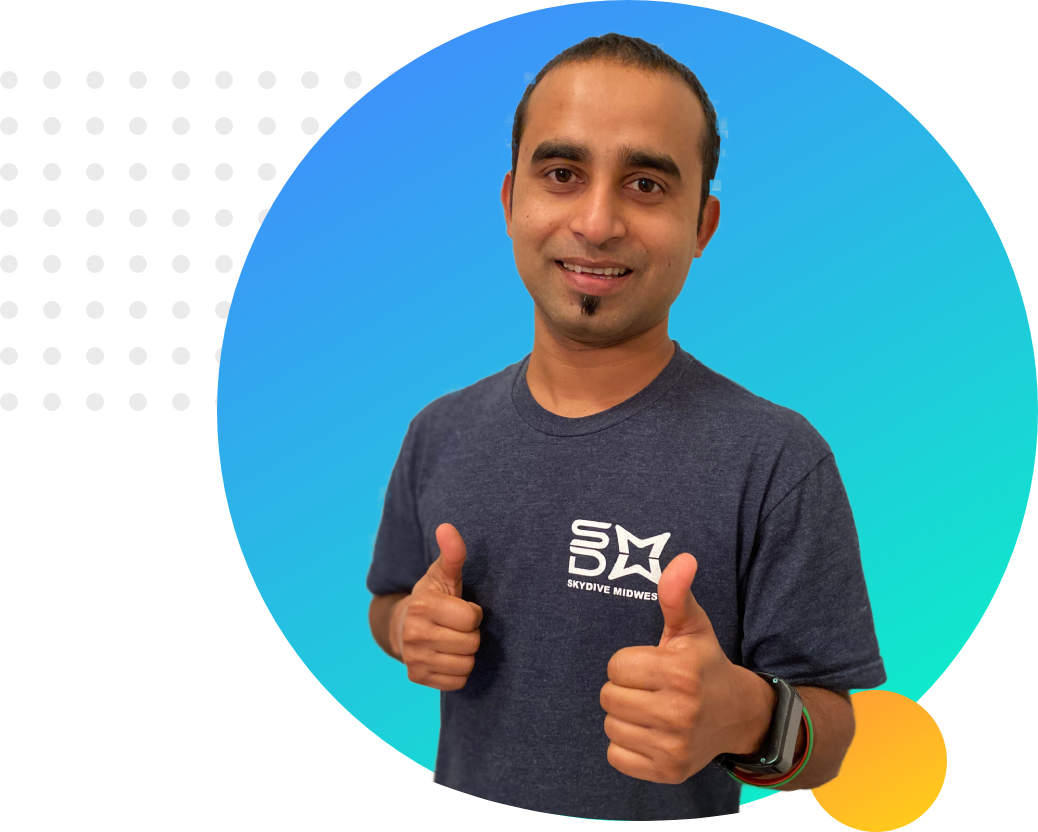
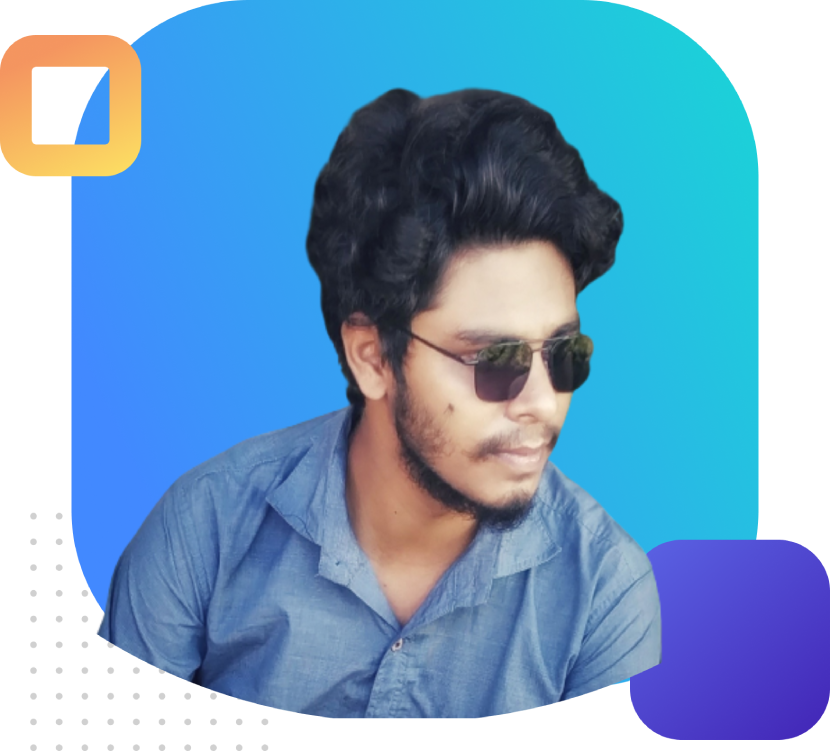
final

diff --git a/index.html b/index.html
@@ -5,44 +5,83 @@
     <meta name="viewport" content="width=device-width, initial-scale=1.0">
     <meta http-equiv="X-UA-Compatible" content="ie=edge">
     <title>Kawshik Web Developer</title>
-    <link href="https://fonts.googleapis.com/css?family=Poppins&display=swap" rel="stylesheet">
+    <link rel="preconnect" href="https://fonts.gstatic.com">
+    <link href="https://fonts.googleapis.com/css2?family=Yeon+Sung&display=swap" rel="stylesheet">
+    <script src="https://kit.fontawesome.com/6643fc3f7c.js" crossorigin="anonymous"></script>
     <link rel="stylesheet" href="style.css">
 </head>
 <body>
     <section class="top-banner">
         <div class="half-width">
-            <h1>Welcome To</h1>
-            <h1><span class="orange-highlight">Kawshik</span> Portfolio</h1>
+            <h1 style="color:#363958">Hello I'am</h1>
+            <h1><span class="blue-highlight">Kawshik Developer</span></h1>
             <h3 >World-class Professional Front-End Developer</h3>
-            <p style="line-height: 2;letter-spacing:.02cm;text-align: justify;font-size: 20px;">Hello I am Kawshik. From my childhood i love to lear about technology. Web is my most favourite in it . That's why I am learning and mastering web development. I will not stop until I become the Web Development Hero.</p>
-            <a class="link-button"  href="https://www.linkedin.com/company/programminghero/">HIRE ME</a>
+            <p style="line-height: 2;letter-spacing:.02cm;text-align: justify;font-size: 20px;">Hello I am Kawshik. From my childhood i love to learn about technology. Web is my most favourite in it . That's why I am learning and mastering web development. I will not stop until I become the Web Development Hero.</p>
+            <a class="link-button"  href="https://www.linkedin.com/company/programminghero/"><i class="far fa-handshake"></i>HIRE ME</a>
         </div>
         <div class="half-width">
-            <img src="images/my-bg2.png" alt="">
+            <img src="images/kawshik profile.png" alt="">
         </div>
     </section>
     <section class="dream-area">
         <div class="half-width">
-            <img src="images/my-bg2.png" alt="">
+            <img src="images/profile2.png" alt="">
         </div>
         <div class="half-width">
-            <h2 id="call">I have a Dream</h2>
+            <h2 id="call">About Me</h2>
             <h3>Become World's No. 1 Developer</h3>
-            <p style="line-height: 2;letter-spacing:.02cm;text-align: justify;font-size: 20px;">I already learned the basic HTML and CSS. I can build any simple website. I can even teach my grandma how to make simple website. My goal is to build 3 websites and learn advanced topics.</p>
-            <a class="link-button" target="_blank" href="https://www.linkedin.com/company/programminghero/">DOWNLOAD RESUME</a>
+            <p style="line-height: 2;letter-spacing:.02cm;text-align: justify;font-size: 20px;">I already learned the basic HTML and CSS. I can build any simple website. I can even teach my friends how to make simple website. My goal is to build 3 websites and learn advanced topics.</p>
+            <a class="link-button" target="_blank" href="https://www.linkedin.com/company/programminghero/"><i class="fas fa-download"></i>DOWNLOAD RESUME</a>
         </div>
     </section>
-    <section class="experience-area">
-        <h2 class="btm" style="margin-left:-100px;text-align:center;border-bottom:3px solid black;display: inline-block;">Experiences</h2>
-        <div id="full-stack" class="half-width single-experience">
-            <h2>Full Stack Web Dev</h2>
-            <h3 class="orange-highlight">2021 - Present | Pro level Web Dev</h3 class="orange-highlight">
-            <p>I am the master of HTML, CSS and Javascript. I know everything needed to make a website function, efficient. I didn't stop with the web. I went beyond with most popular Javascript framework called Vue JS. I even know the deployment, server and security. I will give you 100% web solution.</p>
+    
+    <section class="portfolio-area">
+        <h2 style="color:#363958;text-align: center;"><span class="blue-highlight">LATEST</span> WORKING PROJECT</h2>
+        <div class="portfolio">
+            <img src="images/image 4.png" alt="gym" width="350" height="250" >
+            <h3>Power-x-gym (gym website)</h3>
+            <p>Lorem Ipsum is simply dummy text of the 
+                printing and typesetting industry.</p>
         </div>
-        <div id="baby-web" class="half-width single-experience">
-            <h2>Baby Web Developer</h2>
-            <h3 class="orange-highlight">2020-2021 | Programming Hero Learner</h3>
-            <p>They didn't offer me a job. But I made myself as a remove web developer. I made their website and showed it to them. They liked it. And uploaded the content. It was fun working at Programming Hero.</p>
+        <div class="portfolio">
+            <img src="images/image 5.png" alt="agency" width="350" height="250" >
+            <h3>Creative Agency</h3>
+            <p>Lorem Ipsum is simply dummy text of the 
+                printing and typesetting industry.</p>
+        </div>
+        <div class="portfolio">
+            <img src="images/image 8.png" alt="rock" width="350" height="250" >
+            <h3>Hard Rock Music</h3>
+            <p>Lorem Ipsum is simply dummy text of the 
+                printing and typesetting industry.</p>
+        </div>
+    </section>
+    <section class="testimonial-section">
+        <h2>Clients Review</h2>
+        <div class="testimonial">
+            <img src="images/testimonials-6.png" alt="">
+            <p style="color:white;font-size: 22px;">It was a very pleasant working experience with Hasan. He has patient to understand what i would need and he did put all the effort to make things the best possible.</p>
+            <h2>lisasossi</h2>
+        </div>
+        <div class="testimonial">
+            <img src="images/testimonial-5.png" alt="">
+            <p style="color:white; font-size: 22px;">It was a very pleasant working experience with Hasan. He has patient to understand what i would need and he did put all the effort to make things the best possible.</p>
+            <h2>lakeforest</h2>
+        </div>
+    </section>
+    <section class="work-inquiry">
+        <div class="work">
+            <h2 style="display: inline-block;color:white;position: absolute;margin-left: 400px;margin-top: 50px;">WORK INQUIRY</h2>
+            <a style="position: absolute;margin-top: 62px;margin-left: 893px;"class="link-button" target="_blank" href="https://www.linkedin.com/company/programminghero/"></i>Lets Connect</a>
+        </div>
+    </section>
+    <section>
+        <div class="contact">
+            <h4>Stay Connected</h4>
+            <h2>info@kawshikdeveloper.com</h2>
+            <img src="images/image 6.png" alt="">
+            <img src="images/image 7.png" alt="">
+            <img src="images/Group 33059.png" alt="">
         </div>
     </section>
     <footer>
@@ -50,3 +89,5 @@
     </footer>
 </body>
 </html>
+
+

diff --git a/style.css b/style.css
@@ -1,6 +1,6 @@
 body{
     margin: 0;
-    font-family: 'Poppins', sans-serif;
+    font-family: 'Yeon Sung', cursive;
 }
 h1{
     font-size: 50px;
@@ -11,8 +11,8 @@ h2{
 p{
     color: dimgray;
 }
-.orange-highlight{
-    color: orange;
+.blue-highlight{
+    color:#452FBD;
 }
 .half-width{
     width: 40%;
@@ -23,10 +23,7 @@ p{
 .half-width img{
     width: 100%;
 }
-.top-banner{
-    background-image: url("images/top-banner.png");
-    background-repeat: no-repeat;
-}
+
 section{
     height: 500px;
     padding-bottom: 150px;
@@ -41,46 +38,56 @@ section{
     width:150px;
     transition: width 1s;
 }
+.fa-download{
+    margin-right: 8px;
+}
+.fa-handshake{
+    margin-right: 8px; 
+}
 .link-button:hover{
     background-image: linear-gradient(45deg,tomato, lightSalmon);
     width: 200px;
     box-shadow: 0 12px 16px 0 rgba(0,0,0,0.24), 0 17px 50px 0 rgba(0,0,0,0.19);
 }
-.dream-area{
-    background-image: url("images/dream-bg.png");
-    background-repeat: no-repeat;
-    background-position: right;
+
+.portfolio-area{
+    width: 100%;
+    margin: auto;
+    background-color: #f8f9fc;
+    padding-top: 32px;
 }
-.single-experience{
-    border-radius: 5px;
-    height: 80%;
-    background-color: white;
+.portfolio{
+    width:25%;
+    float: left;
+    border:10px solid #ffffff;
+    border-radius: 10px;
+    margin-left: 70px;
 }
-.single-experience:hover{
-    box-shadow: 10px 10px 40px gray;
+.testimonial-section{
+    padding-top: 50px;
+    text-align: center;
+    background: #FA6D59;
+    color:#ffffff;
 }
-.experience-area{
-    background-image: url("images/exp-bg.png");
-    background-repeat: no-repeat;
-    background-position: left;
-}
-.btm{
-    border-bottom:3px sloid linear-gradient(180deg, lightSalmon, tomato) ;
-}
-#full-stack{
-    border-left: 7px solid;
-    border-bottom: 7px solid;
-    border-image: linear-gradient(180deg, lightSalmon, tomato);
-    border-image-slice: 1;
-    margin-top: 125px;
-}
-#baby-web{
-    border-left: 7px solid;
-    border-bottom: 7px solid;
-    border-image: linear-gradient(180deg, blue, cyan);
-    border-image-slice: 1;
+.testimonial{
+    width:30%;
+    margin-left:200px;
+    float: left;
+    color:#ffffff;
 }
 
+.work{
+    background-image: url('images/Group_33094_1.png');
+    background-repeat: no-repeat;
+    background-position: center; 
+    background-size: contain;
+    height: 200px;
+    margin-top: 50px;
+}
+.contact{
+    text-align: center;
+    margin-top: -350px;
+}
 footer p{
     text-align: center;
     font-size: 16px;
